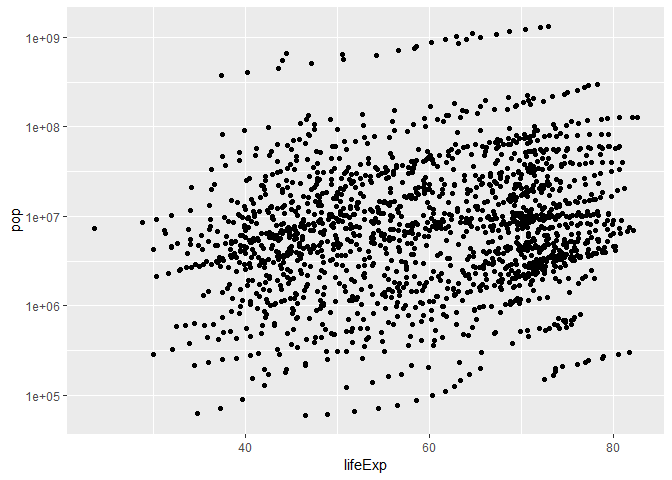
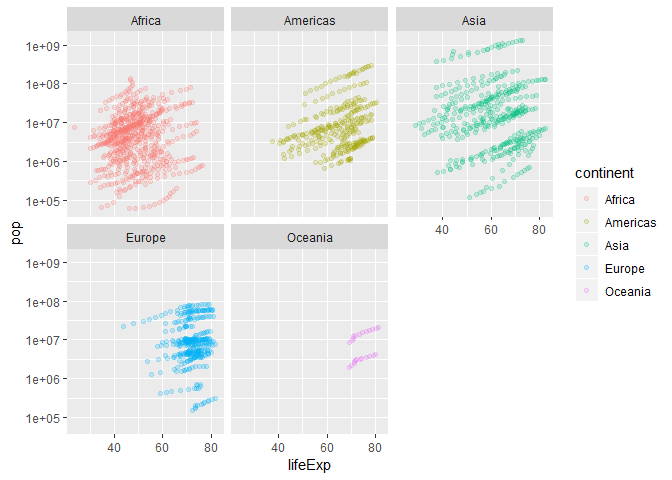
hw update

diff --git a/hw02_gapminder_dplyr.md b/hw02_gapminder_dplyr.md
@@ -1,4 +1,4 @@
-Exploring the gapminder using dplyr and ggplot2
+Exploring gapminder using dplyr and ggplot2
 ================
 
 In this document, we will be exploring the `gapminder` dataset using (among other tools) the `dplyr` and `ggplot2` functions. First we load the gapminder dataset and dplyr using the tidyverse package.
@@ -27,24 +27,30 @@ In this section we determine some basic attributes of `gapminder`.
 -   Is it a data.frame, a matrix, a vector, a list?
 
 ``` r
-typeof(gapminder)
+is.data.frame(gapminder)
 ```
 
-    ## [1] "list"
+    ## [1] TRUE
 
 ``` r
-head(gapminder)
+is.matrix(gapminder)
 ```
 
-    ## # A tibble: 6 x 6
-    ##   country     continent  year lifeExp      pop gdpPercap
-    ##   <fct>       <fct>     <int>   <dbl>    <int>     <dbl>
-    ## 1 Afghanistan Asia       1952    28.8  8425333      779.
-    ## 2 Afghanistan Asia       1957    30.3  9240934      821.
-    ## 3 Afghanistan Asia       1962    32.0 10267083      853.
-    ## 4 Afghanistan Asia       1967    34.0 11537966      836.
-    ## 5 Afghanistan Asia       1972    36.1 13079460      740.
-    ## 6 Afghanistan Asia       1977    38.4 14880372      786.
+    ## [1] FALSE
+
+``` r
+is.vector(gapminder)
+```
+
+    ## [1] FALSE
+
+``` r
+is.list(gapminder)
+```
+
+    ## [1] TRUE
+
+We see that `gapminder` is a data.frame and a list, but it is not a matrix or a vector.
 
 -   What is its class?
 
@@ -74,7 +80,7 @@ nrow(gapminder)
 
 -   Can you get these facts about “extent” or “size” in more than one way? Can you imagine different functions being useful in different contexts?
 
-We can determine both the class and the number of rows & columns (among other information) of `gapminder` by using the `str` function,
+We can determine both the class and the number of rows & columns (among other information) of `gapminder` another way by using, for example, the `str` function,
 
 ``` r
 str(gapminder)
@@ -92,16 +98,12 @@ which also displays the class(es) of gapminder and the number of rows & columns.
 
 -   What data type is each variable?
 
-1.  Continent and country: `character`
-2.  Year and population: `integer`
-3.  Life expectancy and GDP per capita: `numerical` (double)
+From above, we read off that *continent* and *country* are of `factor` type, *year* and *population* are `integer`, and *life expectancy* and *Gdp per capita* are `numerical`.
 
 Exploring a variable
 --------------------
 
-We shall pick,
-
-Categorical variable: `continent`. Quantitative variable: `pop`(population).
+We shall pick, continent as a categorical variable and population as a quantitative one.
 
 -   What are possible values (or range, whichever is appropriate) of each variable?
 
@@ -124,21 +126,29 @@ range(select(gapminder, pop))
 
     ## [1]      60011 1318683096
 
+``` r
+range(select(gapminder, lifeExp))
+```
+
+    ## [1] 23.599 82.603
+
 -   What values are typical? What’s the spread? What’s the distribution? Etc., tailored to the variable at hand.
+
+We can use the summary function to give basic statistical information about the population and life expectancy
 
 ``` r
 gapminder %>% 
-  select(pop) %>% 
+  select(pop, lifeExp) %>% 
   summary()
 ```
 
-    ##       pop           
-    ##  Min.   :6.001e+04  
-    ##  1st Qu.:2.794e+06  
-    ##  Median :7.024e+06  
-    ##  Mean   :2.960e+07  
-    ##  3rd Qu.:1.959e+07  
-    ##  Max.   :1.319e+09
+    ##       pop               lifeExp     
+    ##  Min.   :6.001e+04   Min.   :23.60  
+    ##  1st Qu.:2.794e+06   1st Qu.:48.20  
+    ##  Median :7.024e+06   Median :60.71  
+    ##  Mean   :2.960e+07   Mean   :59.47  
+    ##  3rd Qu.:1.959e+07   3rd Qu.:70.85  
+    ##  Max.   :1.319e+09   Max.   :82.60
 
 Plots
 -----
@@ -156,15 +166,16 @@ ggplot(gapminder, aes(pop)) +
 
 ![](hw02_gapminder_dplyr_files/figure-markdown_github/unnamed-chunk-9-1.png)
 
-Scatter plot of population with life expectancy:
+Scatter plot of population with life expectancy across the five continents:
 
 ``` r
 ggplot(gapminder, aes(lifeExp,pop))+
-  geom_point() +
-  scale_y_log10()
+  geom_point(aes(colour=continent), alpha = 0.2) +
+  scale_y_log10() +
+  facet_wrap(~ continent)
 ```
 
-![](hw02_gapminder_dplyr_files/figure-markdown_github/unnamed-chunk-10-1.png)
+![](hw02_gapminder_dplyr_files/figure-markdown_github/unnamed-chunk-10-1.png) We see that in all continents and all countries in those continents, there appears to be a linear relation between population and life expectancy.
 
 Here is a violin plot overlayed with a jitter plot for life expectancy across continents:
 
@@ -173,12 +184,12 @@ gapminder %>%
   select(continent, lifeExp) %>% 
   ggplot(aes(continent, lifeExp)) +
   geom_violin() +
-  geom_jitter(alpha = 0.2)
+  geom_jitter(aes(colour = continent), alpha = 0.3)
 ```
 
 ![](hw02_gapminder_dplyr_files/figure-markdown_github/unnamed-chunk-11-1.png)
 
-In the following, we create a (log) plot of population across multiple years in Oceania, and Canada.
+In the following, we create a (log) plot of population across multiple years in Austraila, New Zealand, and Canada.
 
 ``` r
 gapminder %>% 
@@ -186,7 +197,8 @@ gapminder %>%
   select(country, year,  pop) %>% 
   ggplot(aes(year, pop, shape = country)) +
   scale_y_log10() +
-  geom_point()
+  geom_point() +
+  geom_smooth(method ="lm")
 ```
 
-![](hw02_gapminder_dplyr_files/figure-markdown_github/unnamed-chunk-12-1.png)
+![](hw02_gapminder_dplyr_files/figure-markdown_github/unnamed-chunk-12-1.png) Here we see from a linear regression fit that the populations of Australia and Canada across the sampled years were increasing at about the same rate, while the population growth in New Zealand was slightly slower.
